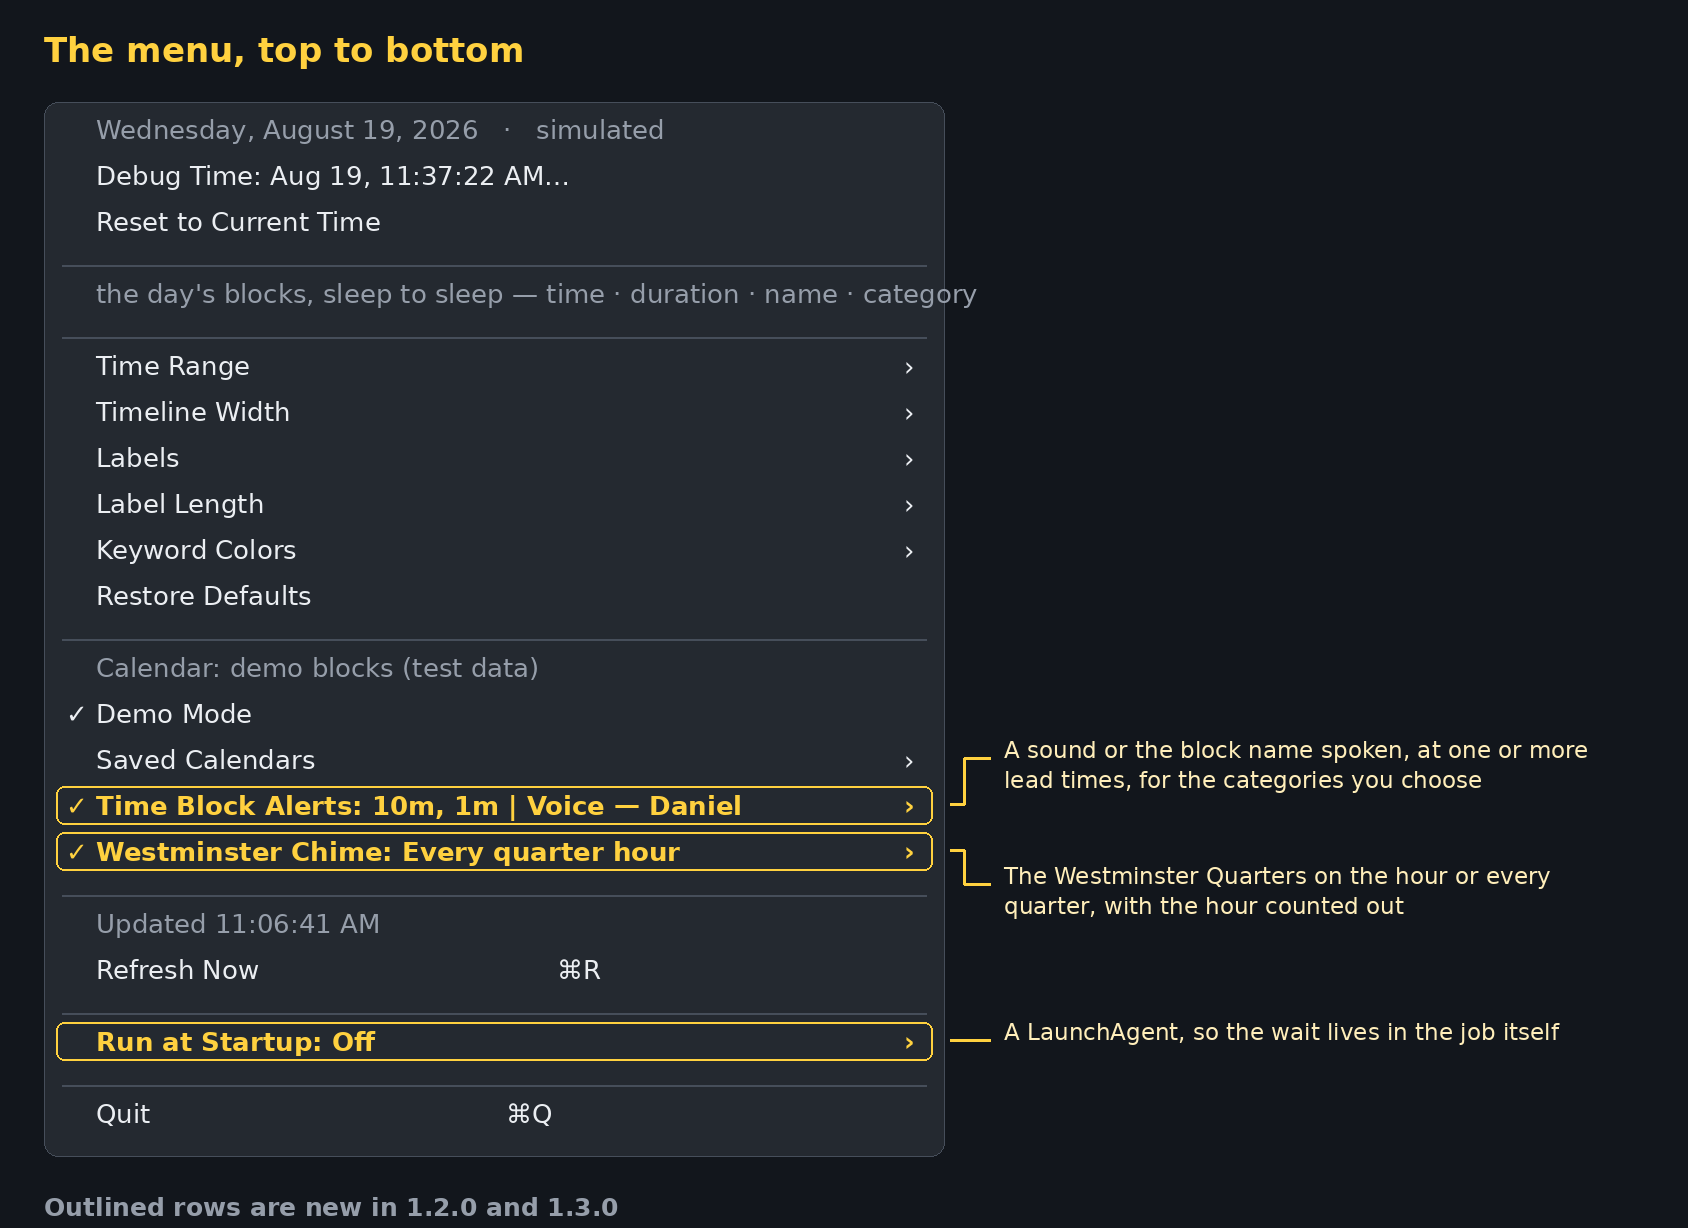
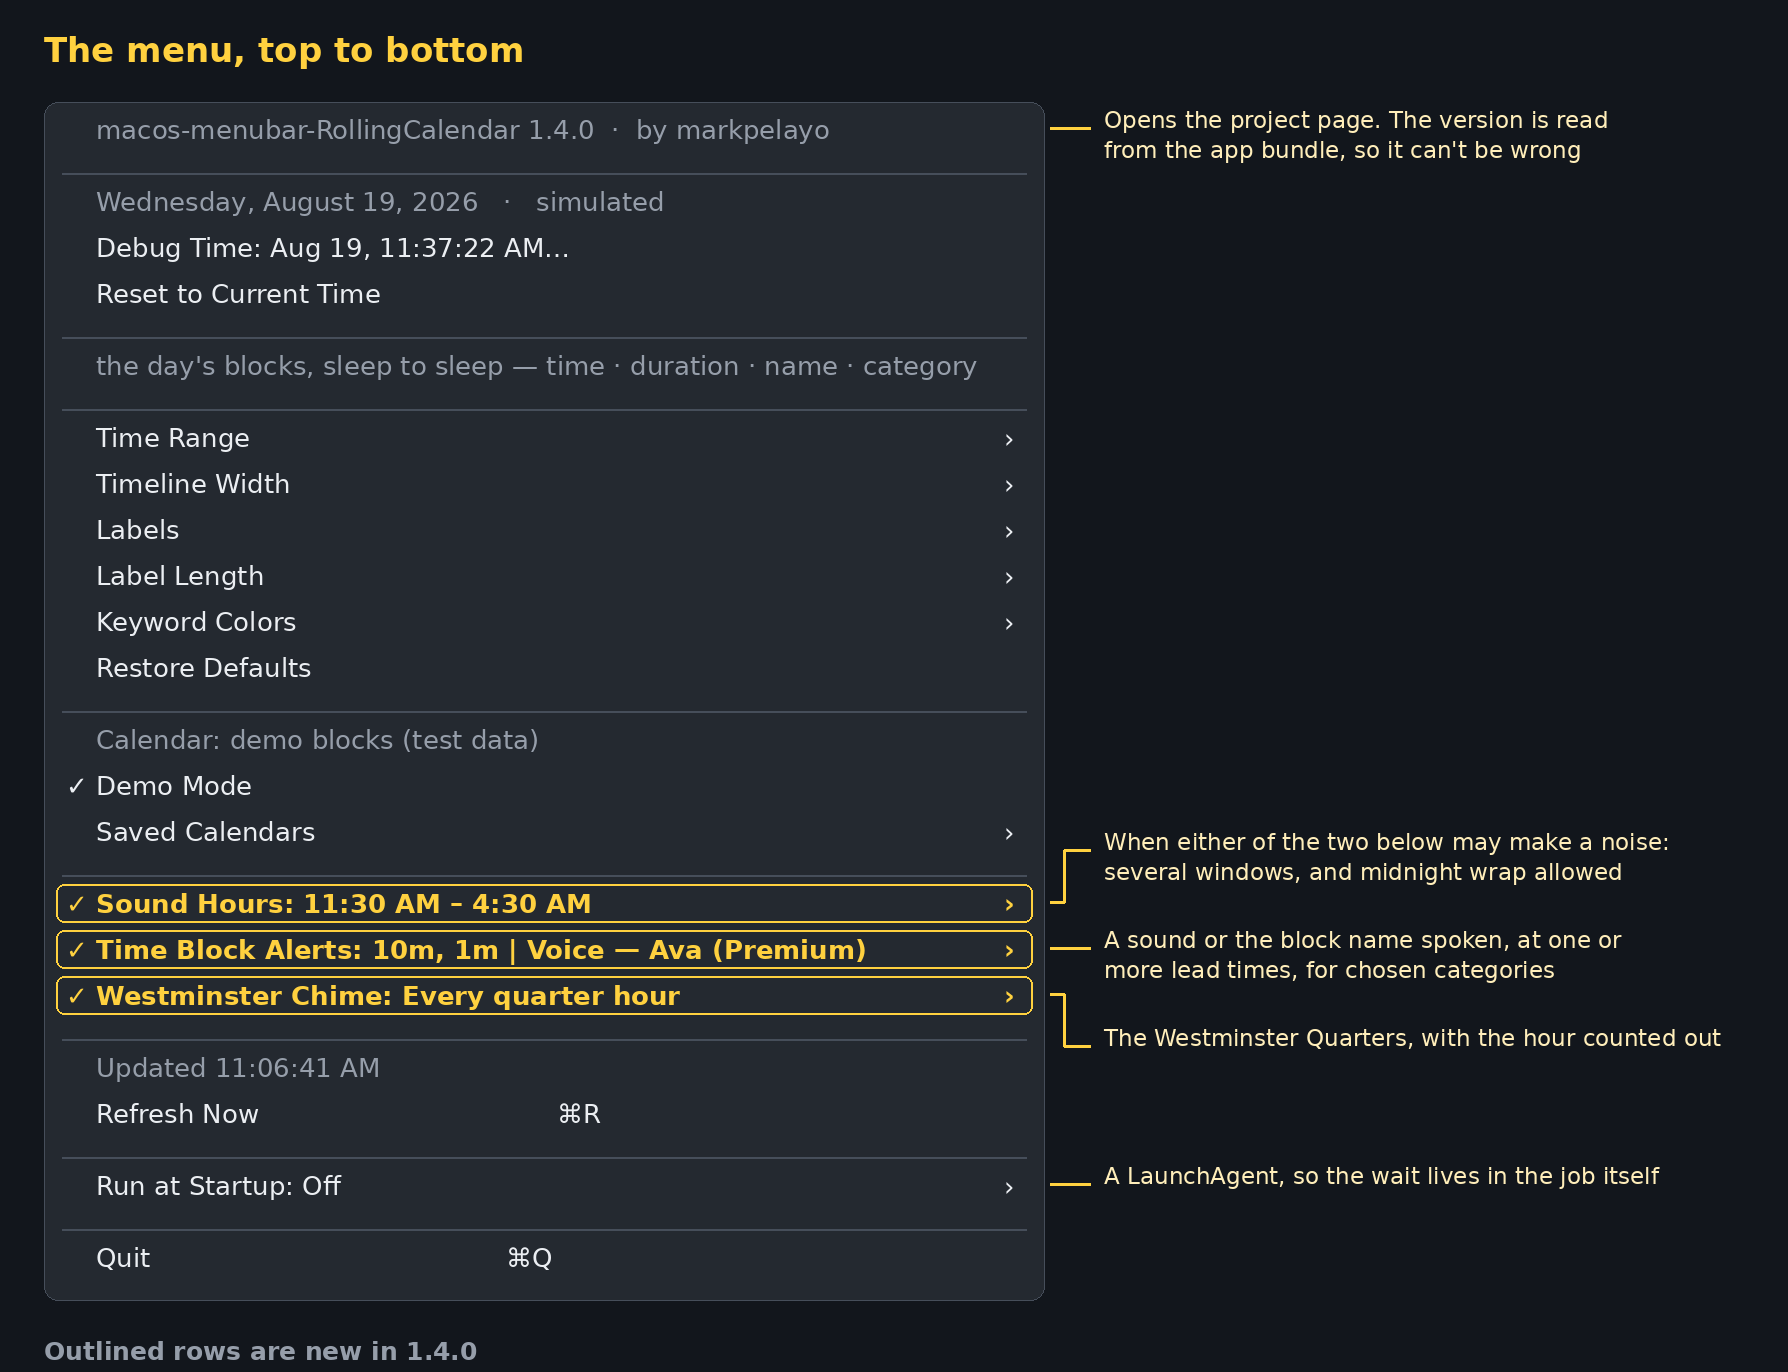
Menu opens with the project name, version and link

diff --git a/Sources/ProjectRowView.swift b/Sources/ProjectRowView.swift
@@ -1,0 +1,94 @@
+import AppKit
+
+/// The first row of the menu: what this is, which version, and whose it is —
+/// opening the project page when clicked.
+///
+/// Drawn dim, like the informational rows it sits above, because it's a caption
+/// rather than a command. A plain `NSMenuItem` can be one or the other but not
+/// both: dimming it means disabling it, and a disabled item can't be clicked. A
+/// small custom view gets both, and picks up the standard highlight on hover so
+/// it still behaves like something you can press.
+final class ProjectRowView: NSView {
+
+    var onOpen: (() -> Void)?
+
+    private let text: String
+    private var isHovered = false
+
+    private static let rowHeight: CGFloat = 22
+    private static let textInset: CGFloat = 21     // aligned with the ticked rows
+    private static let trailingPadding: CGFloat = 26
+
+    init(text: String) {
+        self.text = text
+        let width = Self.textInset + Self.width(of: text) + Self.trailingPadding
+        super.init(frame: NSRect(x: 0, y: 0, width: max(width, 200), height: Self.rowHeight))
+    }
+
+    required init?(coder: NSCoder) { fatalError("not used") }
+
+    private static func width(of text: String) -> CGFloat {
+        let attrs: [NSAttributedString.Key: Any] = [.font: NSFont.menuFont(ofSize: 0)]
+        return ceil(NSAttributedString(string: text, attributes: attrs).size().width)
+    }
+
+    // MARK: Hover
+
+    override func updateTrackingAreas() {
+        super.updateTrackingAreas()
+        trackingAreas.forEach(removeTrackingArea)
+        addTrackingArea(NSTrackingArea(rect: bounds,
+                                       options: [.mouseEnteredAndExited, .activeAlways],
+                                       owner: self))
+    }
+
+    override func mouseEntered(with event: NSEvent) { setHovered(true) }
+    override func mouseExited(with event: NSEvent) { setHovered(false) }
+
+    override func setFrameSize(_ newSize: NSSize) {
+        super.setFrameSize(newSize)
+        needsDisplay = true
+    }
+
+    private func setHovered(_ hovered: Bool) {
+        guard isHovered != hovered else { return }
+        isHovered = hovered
+        needsDisplay = true
+    }
+
+    // MARK: Drawing
+
+    override func draw(_ dirtyRect: NSRect) {
+        if isHovered {
+            NSColor.selectedContentBackgroundColor.setFill()
+            NSBezierPath(roundedRect: bounds.insetBy(dx: 5, dy: 0),
+                         xRadius: 4, yRadius: 4).fill()
+        }
+
+        // Dim at rest, legible when highlighted — the same two states every
+        // other row in the menu has.
+        let ink: NSColor = isHovered ? .selectedMenuItemTextColor : .secondaryLabelColor
+        let style = NSMutableParagraphStyle()
+        style.lineBreakMode = .byTruncatingTail
+        let label = NSAttributedString(string: text, attributes: [
+            .font: NSFont.menuFont(ofSize: 0),
+            .foregroundColor: ink,
+            .paragraphStyle: style
+        ])
+        label.draw(with: NSRect(x: Self.textInset,
+                                y: (bounds.height - label.size().height) / 2,
+                                width: max(bounds.width - Self.textInset - 8, 10),
+                                height: label.size().height),
+                   options: [.truncatesLastVisibleLine, .usesLineFragmentOrigin])
+    }
+
+    // MARK: Clicks
+
+    /// Closes the menu first, the way an ordinary item would, then opens the
+    /// page — leaving a menu tracking behind a newly focused browser looks like
+    /// a bug.
+    override func mouseUp(with event: NSEvent) {
+        enclosingMenuItem?.menu?.cancelTracking()
+        onOpen?()
+    }
+}

diff --git a/Sources/main.swift b/Sources/main.swift
@@ -295,6 +295,18 @@ enum Config {
 
     static var isSimulating: Bool { debugOffset != 0 }
 
+    // MARK: - Who and what this is
+
+    static let appName = "macos-menubar-RollingCalendar"
+    static let author = "markpelayo"
+    static let projectURL = "https://github.com/markpelayo/macos-menubar-RollingCalendar"
+
+    /// Read from the bundle rather than hard-coded, so the menu can't claim a
+    /// version the binary isn't.
+    static var version: String {
+        Bundle.main.object(forInfoDictionaryKey: "CFBundleShortVersionString") as? String ?? ""
+    }
+
     /// A `Calendar` is not cheap to build, and the strip, the dropdown and the
     /// chime all want one. Kept until the time zone it was built for changes.
     private static var cachedCalendar: (zone: String, calendar: Calendar)?
@@ -642,6 +654,18 @@ final class AppDelegate: NSObject, NSApplicationDelegate, NSMenuDelegate {
 
     func menuNeedsUpdate(_ menu: NSMenu) {
         menu.removeAllItems()
+
+        // Name, version and author, opening the project page. The version comes
+        // from the bundle, so it always describes the build you're running
+        // rather than what the source happened to say when this was written.
+        let header = ProjectRowView(
+            text: "\(Config.appName) \(Config.version)  ·  by \(Config.author)")
+        header.onOpen = { [weak self] in self?.openProjectPage() }
+        let headerItem = NSMenuItem()
+        headerItem.view = header
+        headerItem.toolTip = Config.projectURL
+        menu.addItem(headerItem)
+        menu.addItem(.separator())
 
         // Zero-padded hours, so every row's time column is the same width.
         let df = Self.rowFormatter
@@ -1774,6 +1798,11 @@ final class AppDelegate: NSObject, NSApplicationDelegate, NSMenuDelegate {
     // MARK: - Actions
 
     @objc private func refreshNow() { fetch() }
+
+    private func openProjectPage() {
+        guard let url = URL(string: Config.projectURL) else { return }
+        NSWorkspace.shared.open(url)
+    }
 
     /// Minutes, because that's how you think about a lead time — decimals allowed
     /// for the half-minute case.

diff --git a/README.md b/README.md
@@ -26,7 +26,11 @@ Time flows right-to-left. The red line is fixed at the centre and always marks n
 
 The strip is deliberately small — it lives in the menu bar and is meant to be read at a glance, not studied.
 
-Clicking it opens the day's blocks, and everything else lives in that menu:
+Clicking it opens the day's blocks, and everything else lives in that menu. The first row names the app, the version it's actually running — read from the bundle, so it can't disagree with the binary — and opens the [project page](https://github.com/markpelayo/macos-menubar-RollingCalendar):
+
+```
+macos-menubar-RollingCalendar 1.4.0  ·  by markpelayo
+```
 
 ![A map of the whole menu, top to bottom](docs/ui-menu-map.png)
 
@@ -60,7 +64,7 @@ chmod +x build.sh
 open build/RollingCalendar.app
 ```
 
-Needs macOS 13+ and Xcode Command Line Tools (`xcode-select --install`) for `swiftc`. No packages, no dependencies, no Xcode project — one shell script and twelve Swift files.
+Needs macOS 13+ and Xcode Command Line Tools (`xcode-select --install`) for `swiftc`. No packages, no dependencies, no Xcode project — one shell script and thirteen Swift files.
 
 **It starts in Demo Mode**, showing a realistic time-blocked day, so you can see it working before connecting anything. Click the strip → **Demo Mode** to turn that off once you've set up a real calendar.
 
@@ -500,6 +504,7 @@ Only today is loaded; other days are ignored, though events straddling midnight 
 | `Sources/SoundHours.swift` | The one schedule both the alerts and the chime ask before sounding |
 | `Sources/LoginItem.swift` | The LaunchAgent behind Run at Startup |
 | `Sources/ToggleRowView.swift` | Menu rows that toggle without dismissing the menu |
+| `Sources/ProjectRowView.swift` | The dim, clickable first row that opens the project page |
 | `Sources/DemoData.swift` | A realistic time-blocked day for Demo Mode, overlaps included |
 | `build.sh` | Compiles and packages the `.app` (LSUIElement, ad-hoc signed) |
 | `examples/` | Importable 15-minute test calendars |
@@ -520,10 +525,15 @@ The strip redraws once a second and the feed is re-read every five minutes; noth
 | The four menu `DateFormatter`s | never — they're created at launch |
 | The list of installed voices | a voice is downloaded, or the Mac wakes |
 | The list of alert sounds | one is imported, or the Mac wakes |
+| The Sound Hours windows | one is added, removed or switched |
 
 iCalendar dates are parsed by hand rather than through `DateFormatter`, since a feed with a few hundred events would otherwise build an ICU formatter for every `DTSTART`, `DTEND`, `EXDATE` and `UNTIL` in the file, several times an hour.
 
-Together that's tens of kilobytes held, against roughly 25–60 MB resident for any AppKit menu bar app — most of which is shared framework pages. Downloaded voices are not part of it: their audio lives on disk and is loaded by macOS's own speech process, never this one. On quit the wake observer is released, both timers invalidated and the audio engine stopped.
+Non-recurring events are filtered to the days on screen as they're parsed, so a calendar with years of history costs no more to refresh than one with a week in it.
+
+Together that's tens of kilobytes held, against roughly 25–60 MB resident for any AppKit menu bar app — most of which is shared framework pages. Downloaded voices are not part of it: their audio lives on disk and is loaded by macOS's own speech process, never this one. The chime's audio buffer — a few megabytes for a noon strike — is freed when the last note fades, and a chime superseded before it sounds is cancelled before it's rendered at all.
+
+**Nothing is trusted that comes from outside.** A feed can say anything, so durations are bounded, out-of-range dates refused and every parse total — the iCalendar parser has no force unwraps. On quit the wake observer is released, both timers invalidated and the audio engine stopped.
 
 ## Known limitations
 

diff --git a/CHANGELOG.md b/CHANGELOG.md
@@ -8,6 +8,10 @@ All notable changes to this project are documented here. The format follows
 
 ### Added
 
+- **The menu opens with the project.** `macos-menubar-RollingCalendar 1.4.0 · by markpelayo`, drawn
+  dim like the captions around it and clickable like the commands below it — a plain menu item can be
+  one or the other but not both, so it's a small custom row. The version is read from the bundle
+  rather than written into the source, so it always describes the build you're running.
 - **Sound Hours** — one schedule that both Time Block Alerts and the Westminster Chime ask before
   making any noise, in its own block above them in the menu. Windows are a set rather than a choice,
   so a split day (8 AM–1 PM and 7 PM–10 PM) is one setting; a window may run past midnight; **Off**
